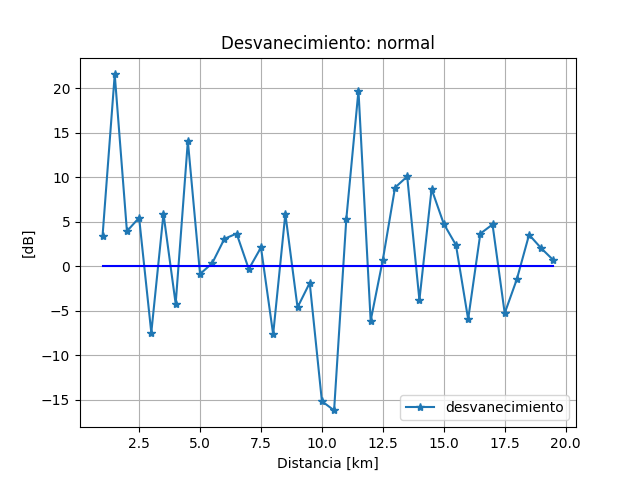
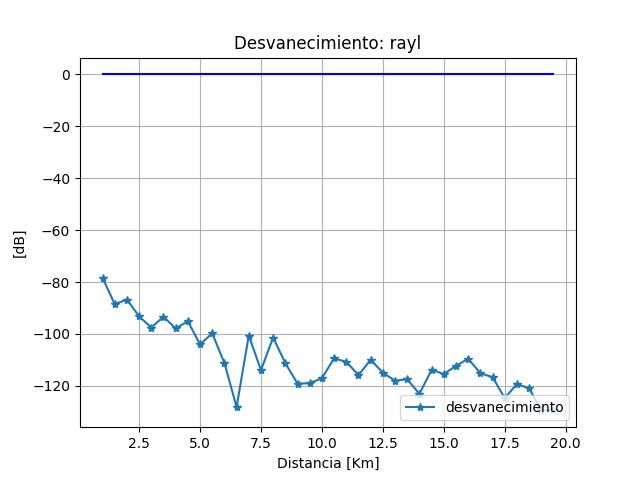
nueva maqueta

diff --git a/produccion/sami_v1/simapp/static/simulador/simulador.py b/produccion/sami_v1/simapp/static/simulador/simulador.py
@@ -94,7 +94,7 @@ class Simulador:
 		 
 		#display de perdidas por trayectoria
 		pre_sim.hiperc_modelo_canal.ver_perdidas_local(nombre="perdidas")
-		titulo="Muestra de Pérdidas de Propagación Ideal"
+		titulo="Pérdidas de Propagación"
 		ruta_img="simulador/base_datos/imagenes/presim/perdidas.png"
 		#self.graficas_disponibles.append(ruta_img)
 		self.graficas_disponibles_dic.update({titulo.upper():ruta_img})
@@ -103,31 +103,31 @@ class Simulador:
 		desva=self.configuracion["cfg_simulador"]["params_propagacion"]["params_desv"]["display"]
 		if desva:
 			pre_sim.hiperc_modelo_canal.ver_desvanecimiento_local(nombre="desvanecimiento")
-			titulo="Muestra de Desvanecimiento"
+			titulo="Desvanecimiento"
 			ruta_img="simulador/base_datos/imagenes/presim/desvanecimiento.png"
 			#self.graficas_disponibles.append(ruta_img)
 			self.graficas_disponibles_dic.update({titulo.upper():ruta_img})
 			#
 			pre_sim.hiperc_modelo_canal.ver_relaciones_local(nombre="relaciones")
-			titulo="Muestra de Relación de Gráficas"
+			titulo="Relación de Gráficas"
 			ruta_img="simulador/base_datos/imagenes/presim/relaciones.png"
 			#self.graficas_disponibles.append(ruta_img)
 			self.graficas_disponibles_dic.update({titulo.upper():ruta_img})
 			#
 			pre_sim.hiperc_modelo_canal.ver_balance_local(nombre="balance")
-			titulo="Muestra de Balance del Enlace"
+			titulo="Balance del Enlace"
 			ruta_img="simulador/base_datos/imagenes/presim/balance.png"
 			#self.graficas_disponibles.append(ruta_img)
 			self.graficas_disponibles_dic.update({titulo.upper():ruta_img})
 		else:
 			print("[simulador]: desvanecimiento desactivado, la grafica no se genera")
 			pre_sim.hiperc_modelo_canal.ver_balance_sin_local(nombre="balance_sin")
-			titulo="Muestra de Balance del Enlace (Sin desvanecimiento)"
+			titulo="Balance del Enlace (Sin desvanecimiento)"
 			ruta_img="simulador/base_datos/imagenes/presim/balance_sin.png"
 			#self.graficas_disponibles.append(ruta_img)
 			self.graficas_disponibles_dic.update({titulo.upper():ruta_img})
 		
-		#pre_sim.ver_todo()
+		pre_sim.ver_todo()
 		titulo="Escenario de Simulación"
 		ruta_img="simulador/base_datos/imagenes/presim/base-sim.png"
 		#self.graficas_disponibles.append(ruta_img)

diff --git a/produccion/sami_v1/simapp/static/simulador/pk_modelo_canal/modelo_canal.py b/produccion/sami_v1/simapp/static/simulador/pk_modelo_canal/modelo_canal.py
@@ -472,7 +472,7 @@ class Modelo_Canal:
 		plt.plot(self.custom_dist, self.resultado_path_loss, label="Pérdidas")
 		plt.legend(loc="upper left")
 		plt.title("Pérdidas de Propagación: {}".format(self.cfg_prop["modelo_perdidas"]))
-		plt.xlabel("Distancia [km]")
+		plt.xlabel("Distancia [Km]")
 		plt.ylabel("Pérdidas [dB]")
 		plt.grid(True)
 		ruta="simapp/static/simulador/base_datos/imagenes/presim/{}.png".format(nombre)
@@ -501,8 +501,8 @@ class Modelo_Canal:
 		#si rayl-mixto, no sumar
 		#label="normal+sin ptx, simplificado"
 		plt.title("Desvanecimiento: {}".format(self.cfg_prop["params_desv"]["tipo"]))
-		plt.xlabel("Distancia [km]")
-		plt.ylabel("[dB]")
+		plt.xlabel("Distancia [Km]")
+		plt.ylabel("Potencia Recibida [dBm]")
 		ruta="simapp/static/simulador/base_datos/imagenes/presim/{}.png".format(nombre)
 		plt.savefig(ruta)
 
@@ -531,8 +531,8 @@ class Modelo_Canal:
 		#si rayl-mixto, no sumar
 		#label="normal+sin ptx, simplificado"
 		plt.title("Desvanecimiento: {}".format(self.cfg_prop["params_desv"]["tipo"]))
-		plt.xlabel("Distancia [km]")
-		plt.ylabel("[dB]")
+		plt.xlabel("Distancia [Km]")
+		plt.ylabel("Potencia Recibida [dBm]")
 		ruta="simapp/static/simulador/base_datos/imagenes/presim/{}.png".format(nombre)
 		plt.savefig(ruta)
 	
@@ -552,8 +552,8 @@ class Modelo_Canal:
 		plt.plot(self.custom_dist, self.resultado_balance, label="balance final")
 		plt.legend(loc="lower right")
 		plt.title("Desvanecimiento: {}".format(self.cfg_prop["params_desv"]["tipo"]))
-		plt.xlabel("Distancia [km]")
-		plt.ylabel("[dB]")
+		plt.xlabel("Distancia [Km]")
+		plt.ylabel("Potencia Recibida [dBm]")
 		ruta="simapp/static/simulador/base_datos/imagenes/presim/{}.png".format(nombre)
 		plt.savefig(ruta)
 
@@ -587,7 +587,7 @@ class Modelo_Canal:
 		#label="normal+sin ptx, simplificado"
 		plt.title("Desvanecimiento: {}".format(self.cfg_prop["params_desv"]["tipo"]))
 		plt.xlabel("Distancia [km]")
-		plt.ylabel("[dB]")
+		plt.ylabel("Potencia Recibida [dBm]")
 		ruta="simapp/static/simulador/base_datos/imagenes/presim/{}.png".format(nombre)
 		plt.savefig(ruta)
 

diff --git a/produccion/sami_v1/simapp/static/simulador/sistema.py b/produccion/sami_v1/simapp/static/simulador/sistema.py
@@ -6,6 +6,13 @@ import pandas as pd
 import math
 import os
 import time #for debug.
+
+#tareas
+#cambiar nombre de los ejes: sin muestra.
+#cambiar km por Km
+#en balance cambiar [dm] por potencia [dBm]
+#corregir modelo 3gpp.
+#cambiar de numerologia, que sea automatica como se habia dicho antes.
 #
 from shapely.geometry import Point
 from shapely.geometry.polygon import Polygon
@@ -746,7 +753,7 @@ class Sistema_Celular:
 		fig,ax=plt.subplots()
 
 		c=ax.pcolormesh(self.malla_x,self.malla_y,pr_max, cmap='plasma', vmin=z_min, vmax=-42)
-		fig.colorbar(c,ax=ax, label="Potencia Recibida [dB]")
+		fig.colorbar(c,ax=ax, label="Potencia Recibida [dBm]")
 		titulo="{}, Ptx:{}, Desvanecimiento:{}.".format(str(self.cfg_prop["modelo_perdidas"]), self.cfg_bal["ptx"], self.cfg_prop["params_desv"]["tipo"])
 		plt.title(titulo)
 		plt.xlabel("Distancia [m]")
@@ -905,6 +912,7 @@ class Sistema_Celular:
 		#plt.show()
 		#plt.grid(True)
 		nombre="base-sim"
+		print("[base-sim generado]")
 		ruta="simapp/static/simulador/base_datos/imagenes/presim/{}.png".format(nombre)
 		plt.savefig(ruta)
 
